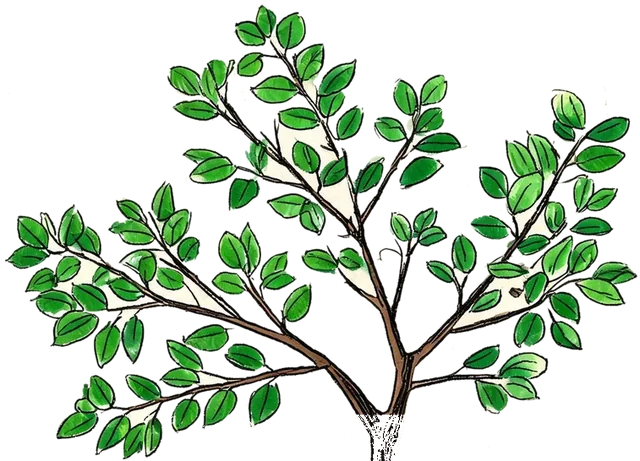
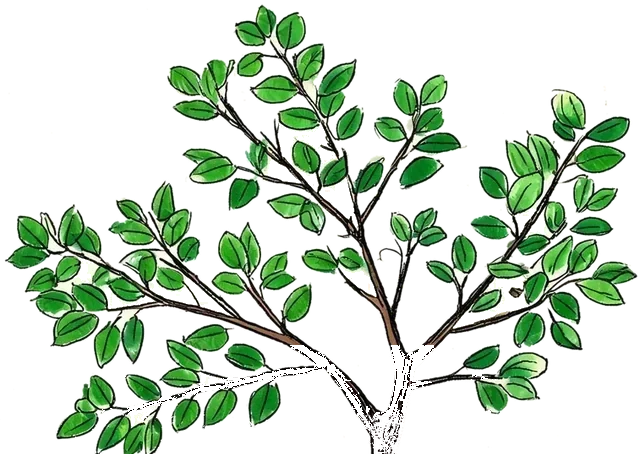
feat: update workspace

diff --git a/css/style.css b/css/style.css
@@ -254,25 +254,42 @@ button {
   bottom: calc(var(--pot-h) - 50px);
   transform: translateX(-50%);
   transform-origin: 50% 100%;
-  animation: sway var(--sway-dur, 5.4s) ease-in-out infinite;
+  animation: sway var(--sway-dur, 7.4s) ease-in-out infinite;
   will-change: transform;
   z-index: 2;
 }
 
 .plant-sway.gust {
-  animation: gust 0.95s ease-in-out;
+  animation: gust 1.5s ease-in-out;
 }
 
 @keyframes sway {
-  0%, 100% { transform: translateX(-50%) rotate(-0.9deg); }
-  50% { transform: translateX(-50%) rotate(1.1deg); }
+  0%, 100% { transform: translateX(-50%) rotate(-0.32deg); }
+  50% { transform: translateX(-50%) rotate(0.42deg); }
 }
 
 @keyframes gust {
   0%, 100% { transform: translateX(-50%) rotate(0deg); }
-  22% { transform: translateX(-50%) rotate(-2.6deg); }
-  58% { transform: translateX(-50%) rotate(2deg); }
-  82% { transform: translateX(-50%) rotate(-0.8deg); }
+  30% { transform: translateX(-50%) rotate(-1.15deg); }
+  62% { transform: translateX(-50%) rotate(0.95deg); }
+  82% { transform: translateX(-50%) rotate(-0.4deg); }
+}
+
+.wind-mote {
+  position: absolute;
+  width: 5px;
+  height: 5px;
+  border-radius: 50% 0 50% 50%;
+  background: rgba(147, 169, 141, 0.55);
+  opacity: 0;
+  animation: mote-drift var(--dur, 4.6s) linear forwards;
+}
+
+@keyframes mote-drift {
+  0% { opacity: 0; transform: translate(0, 0) rotate(0deg); }
+  15% { opacity: 0.7; }
+  70% { opacity: 0.5; }
+  100% { opacity: 0; transform: translate(var(--dx, 140px), var(--dy, -26px)) rotate(150deg); }
 }
 
 .plant-img {

diff --git a/js/app.js b/js/app.js
@@ -306,11 +306,29 @@ function spawnPetals(count = 4) {
   }
 }
 
+function spawnWind() {
+  const box = sceneBox();
+  const count = 4 + Math.floor(Math.random() * 3);
+  for (let i = 0; i < count; i += 1) {
+    const mote = document.createElement('span');
+    mote.className = 'wind-mote';
+    mote.style.left = `${8 + Math.random() * 46}px`;
+    mote.style.top = `${64 + Math.random() * (box.height * 0.56)}px`;
+    mote.style.setProperty('--dx', `${90 + Math.random() * 130}px`);
+    mote.style.setProperty('--dy', `${-34 + Math.random() * 52}px`);
+    mote.style.setProperty('--dur', `${3.4 + Math.random() * 2.2}s`);
+    mote.style.animationDelay = `${i * 0.16}s`;
+    dom.fxLayer.appendChild(mote);
+    setTimeout(() => mote.remove(), 7200);
+  }
+}
+
 function gust() {
   if (dom.plantStage.hidden) return;
-  dom.plantSway.style.setProperty('--sway-dur', `${(3.6 + Math.random() * 3).toFixed(1)}s`);
+  dom.plantSway.style.setProperty('--sway-dur', `${(6.4 + Math.random() * 3).toFixed(1)}s`);
   dom.plantSway.classList.add('gust');
-  setTimeout(() => dom.plantSway.classList.remove('gust'), 980);
+  spawnWind();
+  setTimeout(() => dom.plantSway.classList.remove('gust'), 1500);
 }
 
 function scheduleIdle() {

diff --git a/scripts/cleanup-cutout.py b/scripts/cleanup-cutout.py
@@ -1,0 +1,64 @@
+"""去掉植株图里残留的纸底空洞（被叶片包围、第一次洪泛填充漏掉的区域）。"""
+from PIL import Image
+from pathlib import Path
+
+ROOT = Path(__file__).resolve().parent.parent
+PROTECT = {
+    "strawberry/stage-06",
+    "strawberry/stage-07",
+    "apple/stage-07",
+    "guava/stage-07",
+    "shared/tree-buds",
+}
+MIN_SIZE = 150
+
+
+def is_paper(p):
+    r, g, b, a = p
+    if a < 200:
+        return False
+    return min(r, g, b) >= 208 and r >= g >= b and (r - b) <= 34 and (r - g) <= 10
+
+
+def clean(path: Path) -> int:
+    im = Image.open(path).convert("RGBA")
+    w, h = im.size
+    px = im.load()
+    mask = [[is_paper(px[x, y]) for x in range(w)] for y in range(h)]
+    seen = [[False] * w for _ in range(h)]
+    removed = 0
+
+    for y in range(h):
+        for x in range(w):
+            if not mask[y][x] or seen[y][x]:
+                continue
+            stack = [(x, y)]
+            seen[y][x] = True
+            comp = []
+            while stack:
+                cx, cy = stack.pop()
+                comp.append((cx, cy))
+                for nx, ny in ((cx + 1, cy), (cx - 1, cy), (cx, cy + 1), (cx, cy - 1)):
+                    if 0 <= nx < w and 0 <= ny < h and mask[ny][nx] and not seen[ny][nx]:
+                        seen[ny][nx] = True
+                        stack.append((nx, ny))
+            if len(comp) >= MIN_SIZE:
+                for cx, cy in comp:
+                    px[cx, cy] = (0, 0, 0, 0)
+                removed += len(comp)
+
+    if removed:
+        im.save(path, "WEBP", quality=88, method=6)
+    return removed
+
+
+def main():
+    for path in sorted((ROOT / "assets/plants").rglob("*.webp")):
+        key = str(path).replace(str(ROOT / "assets/plants/"), "").replace(".webp", "")
+        if key in PROTECT or key == "shared/seed":
+            continue
+        print(f"{key}: removed {clean(path)} px")
+
+
+if __name__ == "__main__":
+    main()
